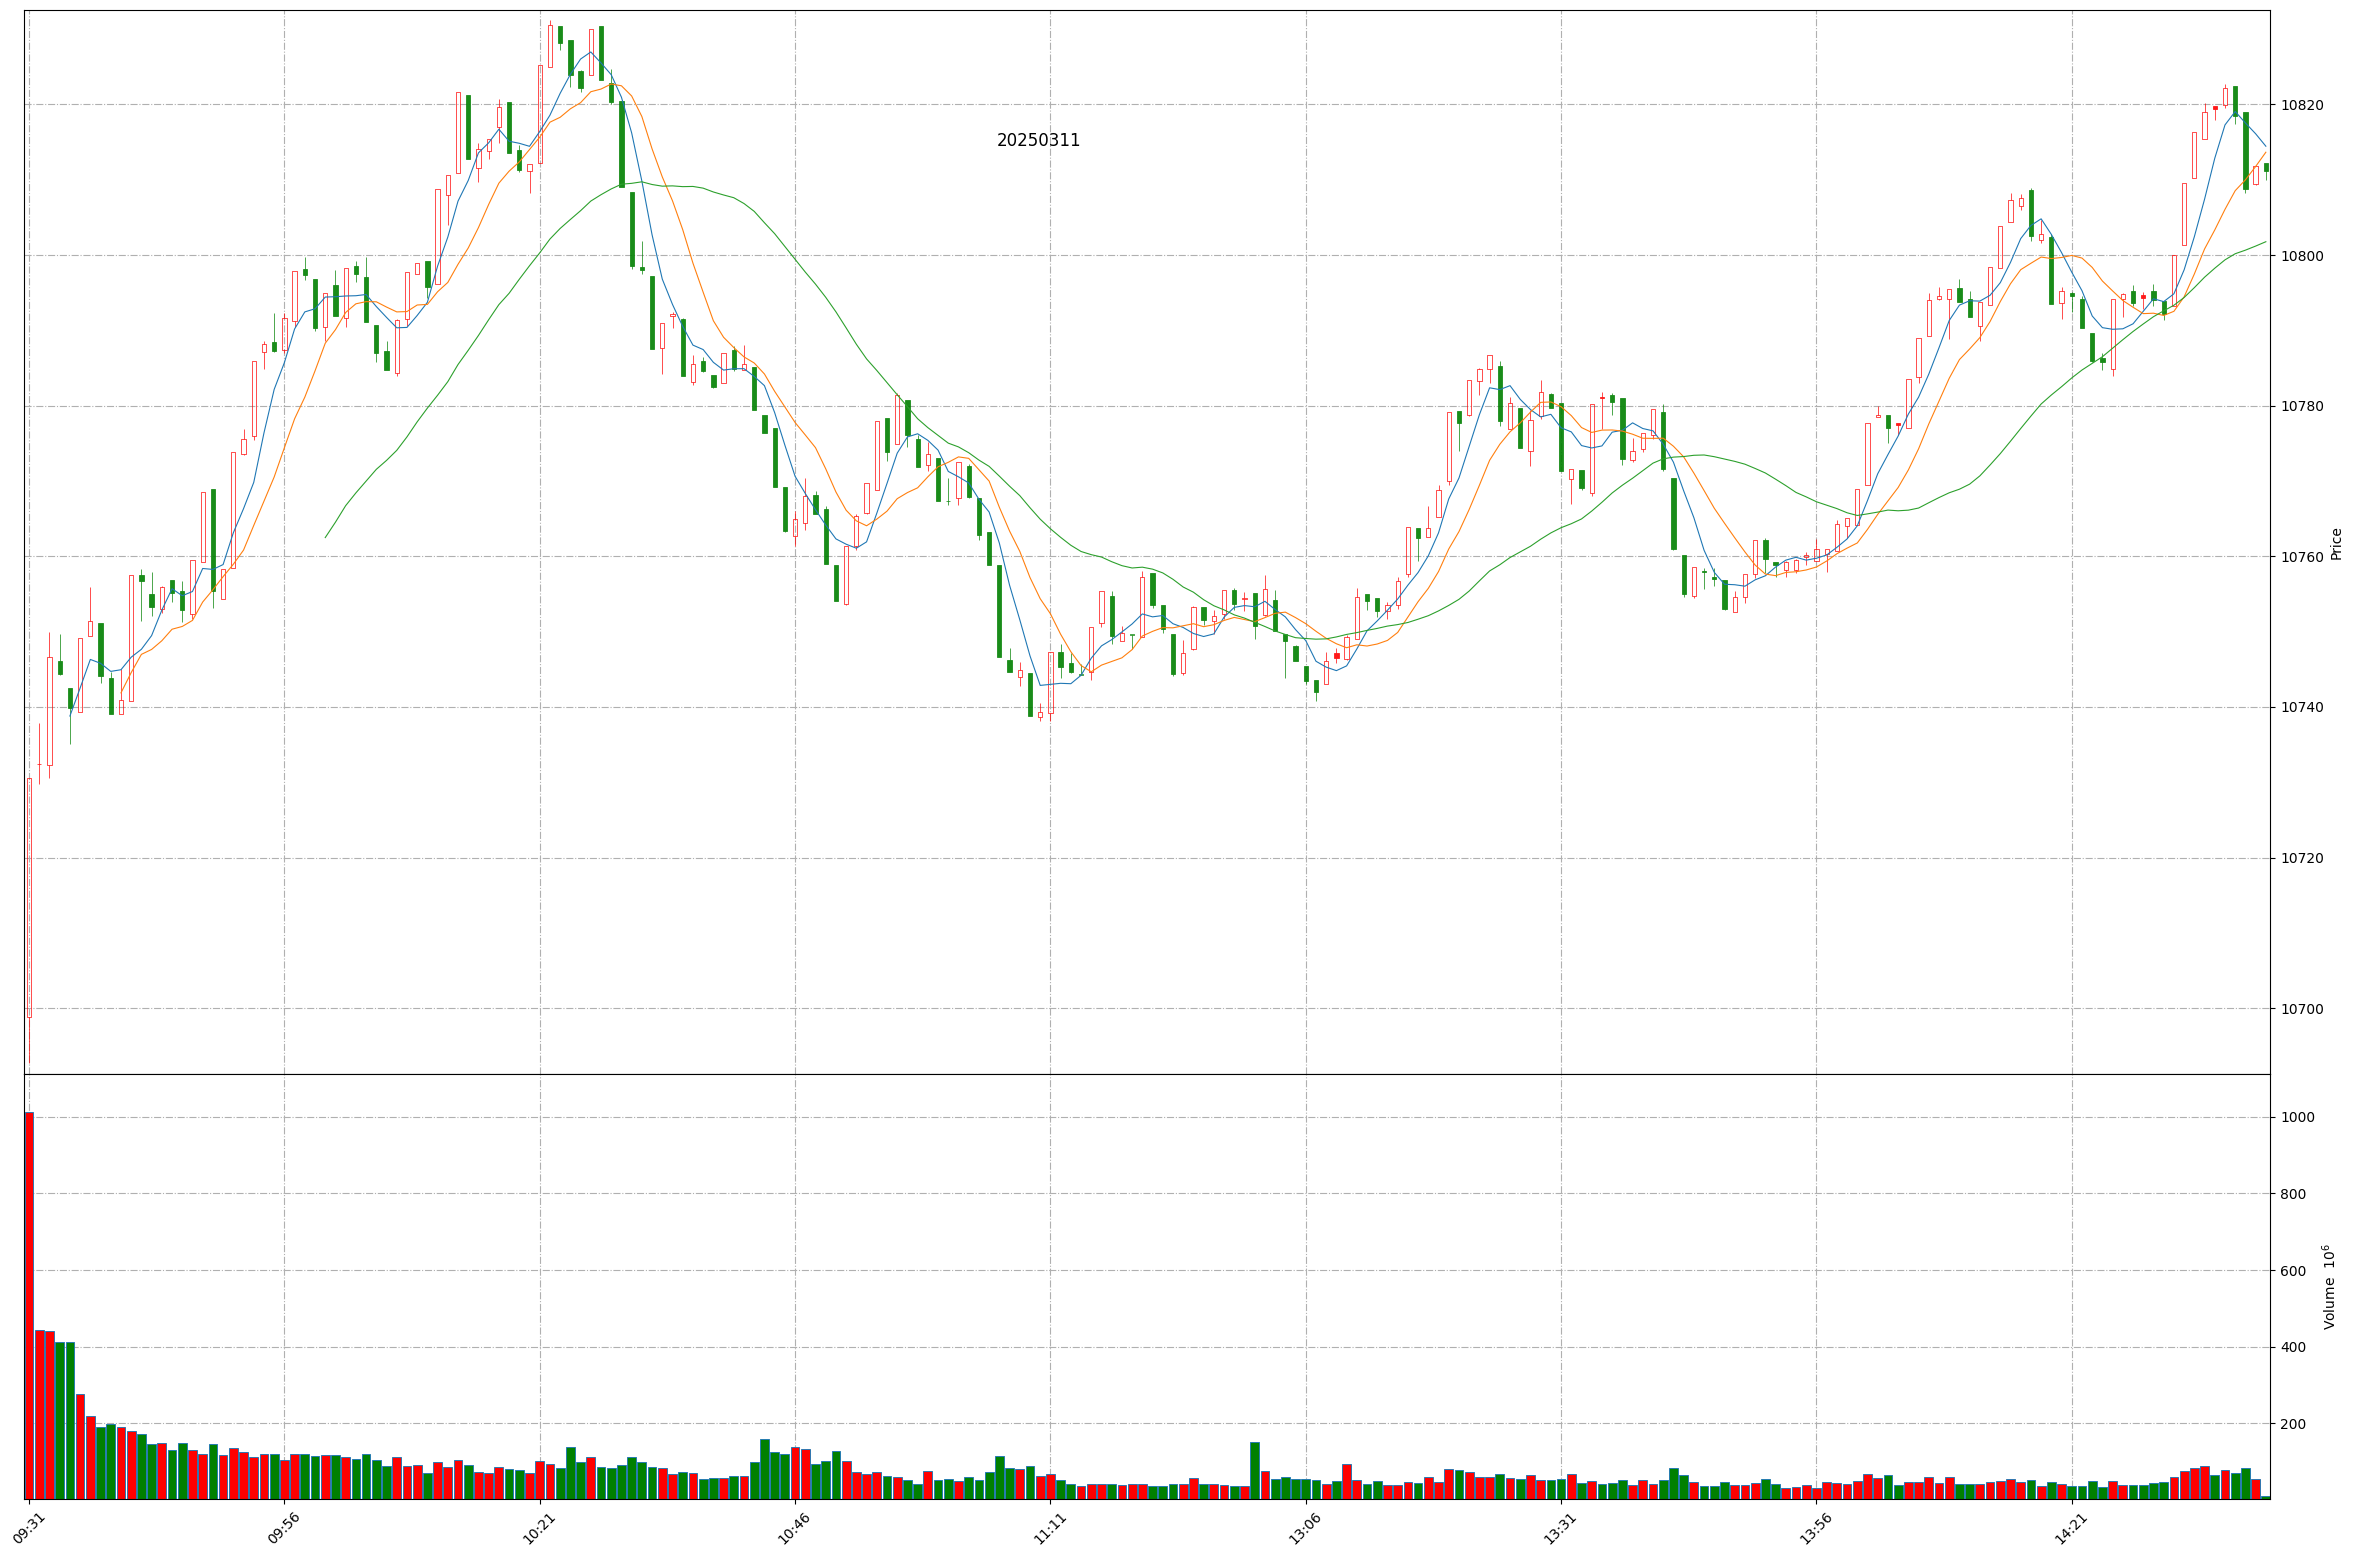
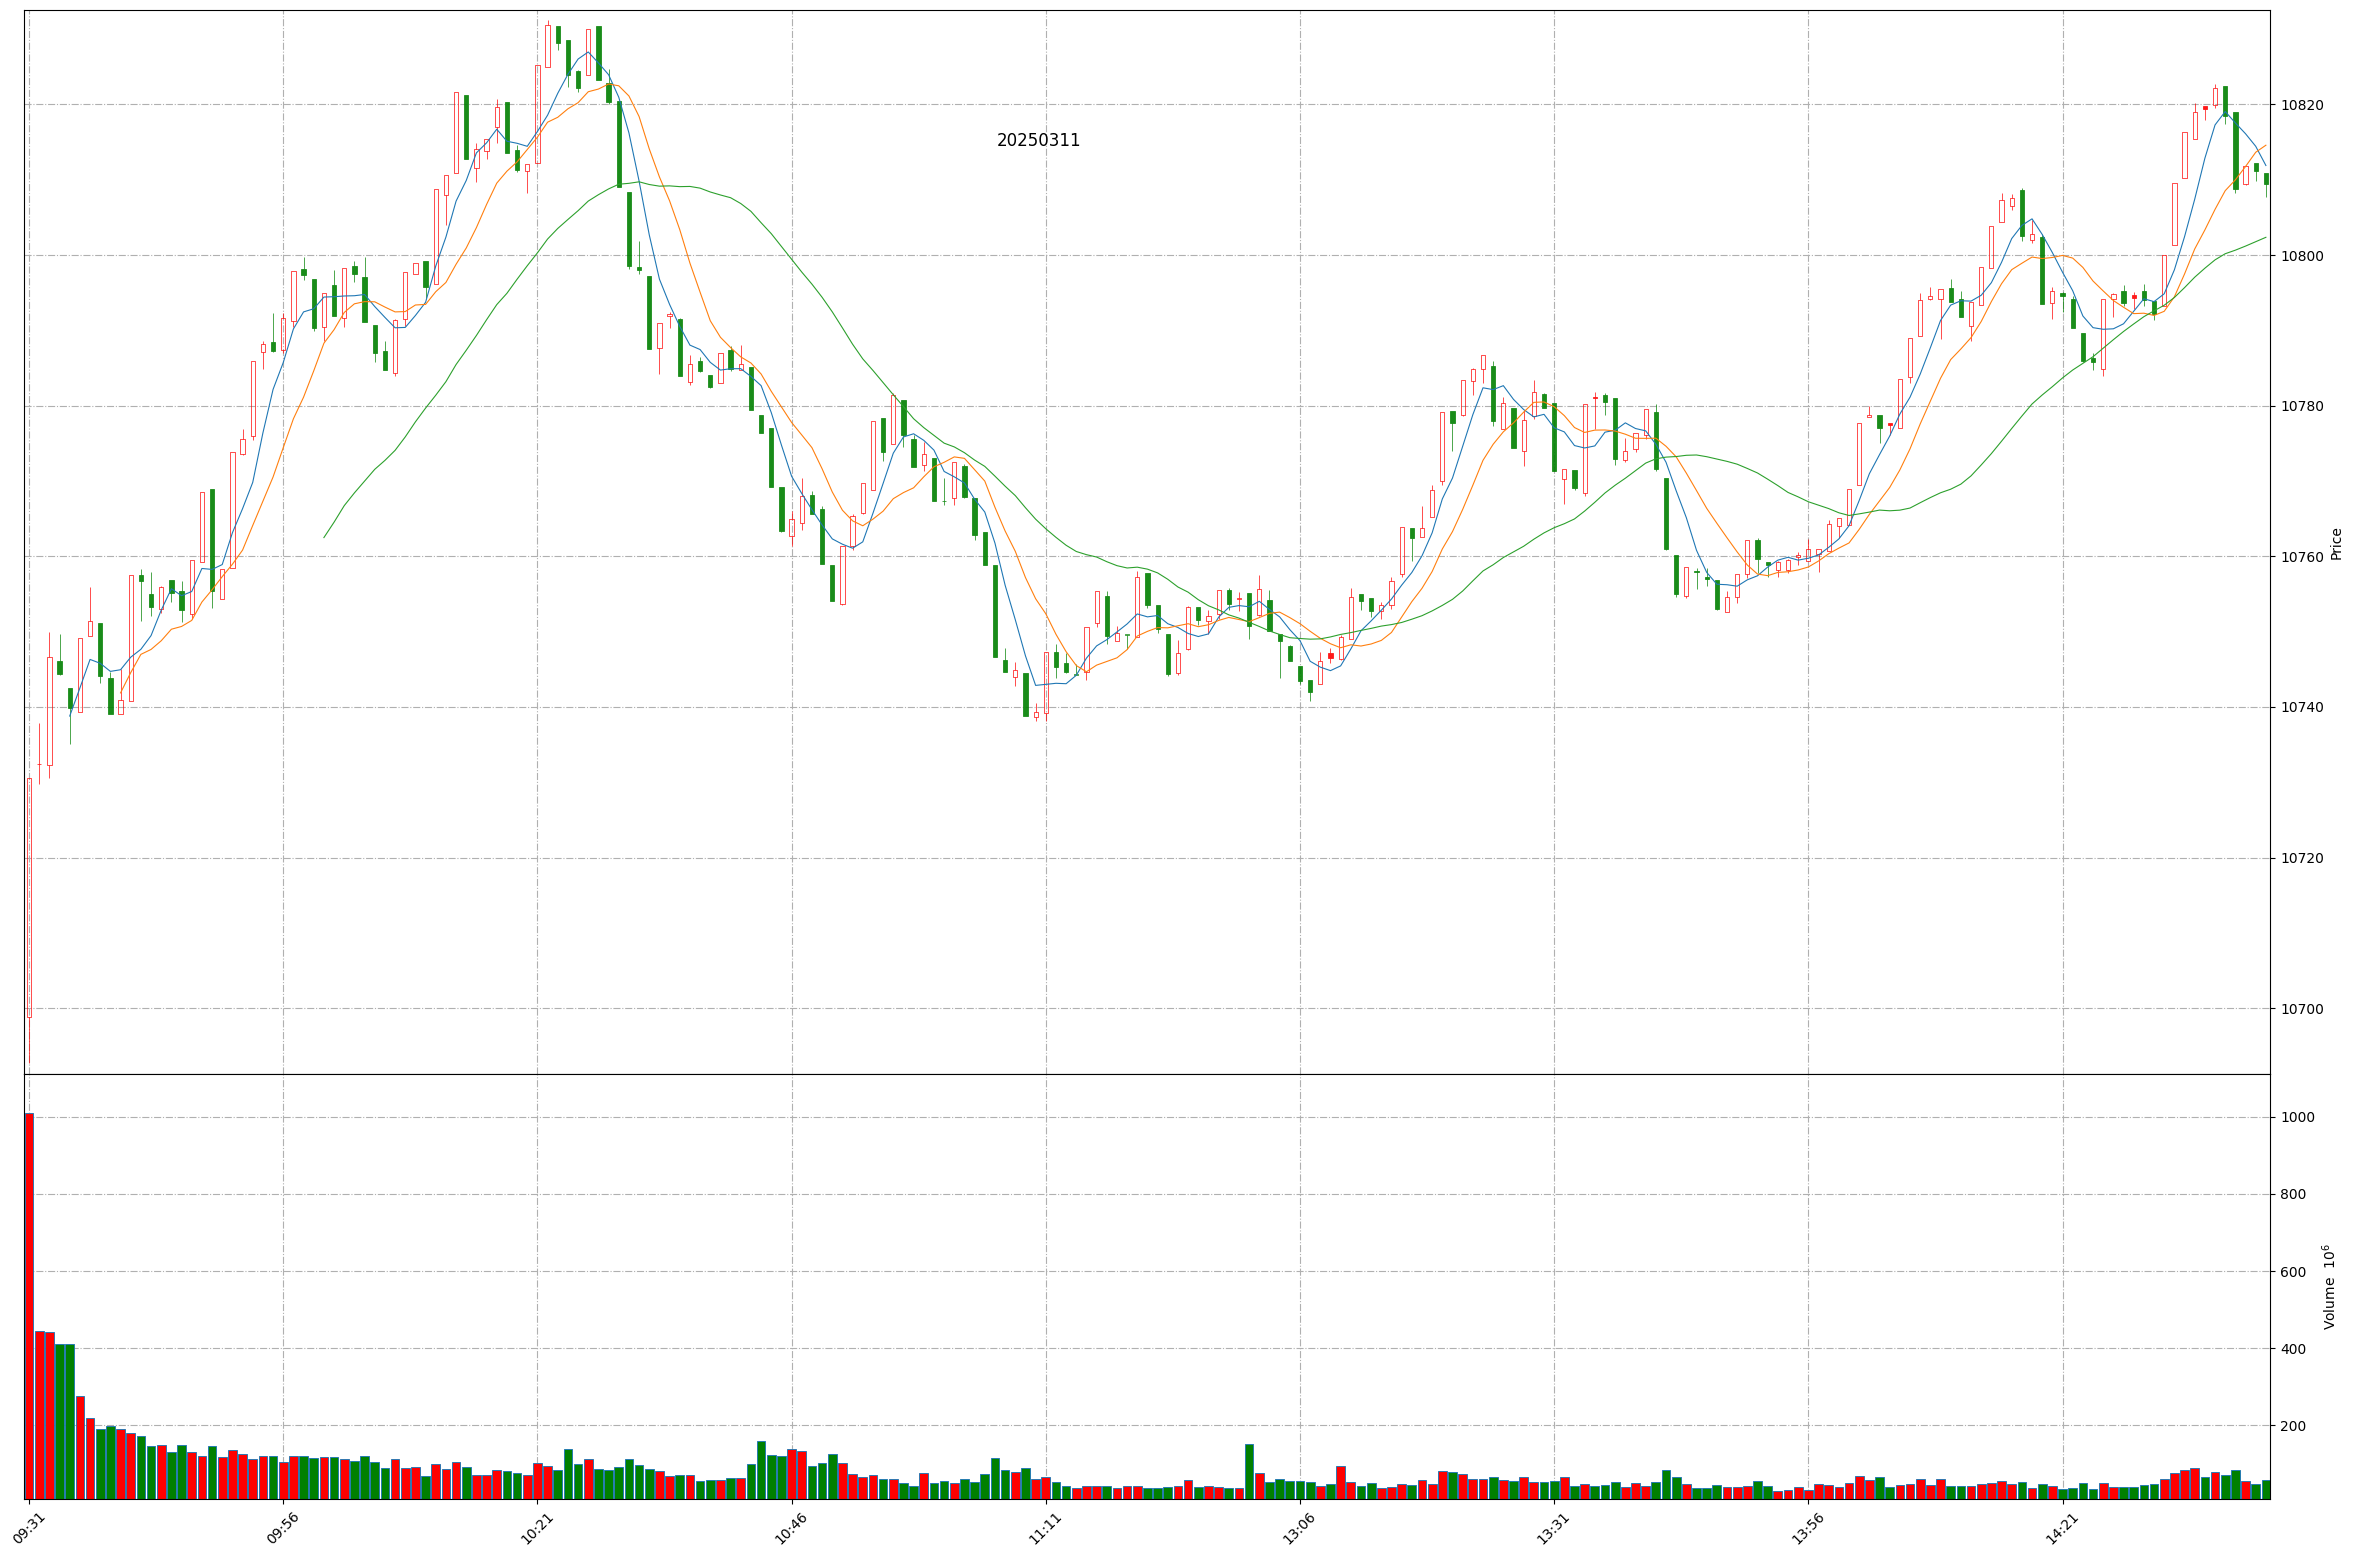
Github action update at 2025-03-11 14:41:04.

diff --git a/README.md b/README.md
@@ -1,11 +1,11 @@
 
 # Daily-A-share-market-quotes 每日 A 股指数（5min 更新）- 20250311
 
-### 上证指数 20250311 14:39
+### 上证指数 20250311 14:41
 ![](./fig/2025/3/20250311-sh000001.png)
 
-### 深证成指 20250311 14:39
+### 深证成指 20250311 14:41
 ![](./fig/2025/3/20250311-sz399001.png)
 
-### 北证50 20250311 14:39
+### 北证50 20250311 14:41
 ![](./fig/2025/3/20250311-bj899050.png)
